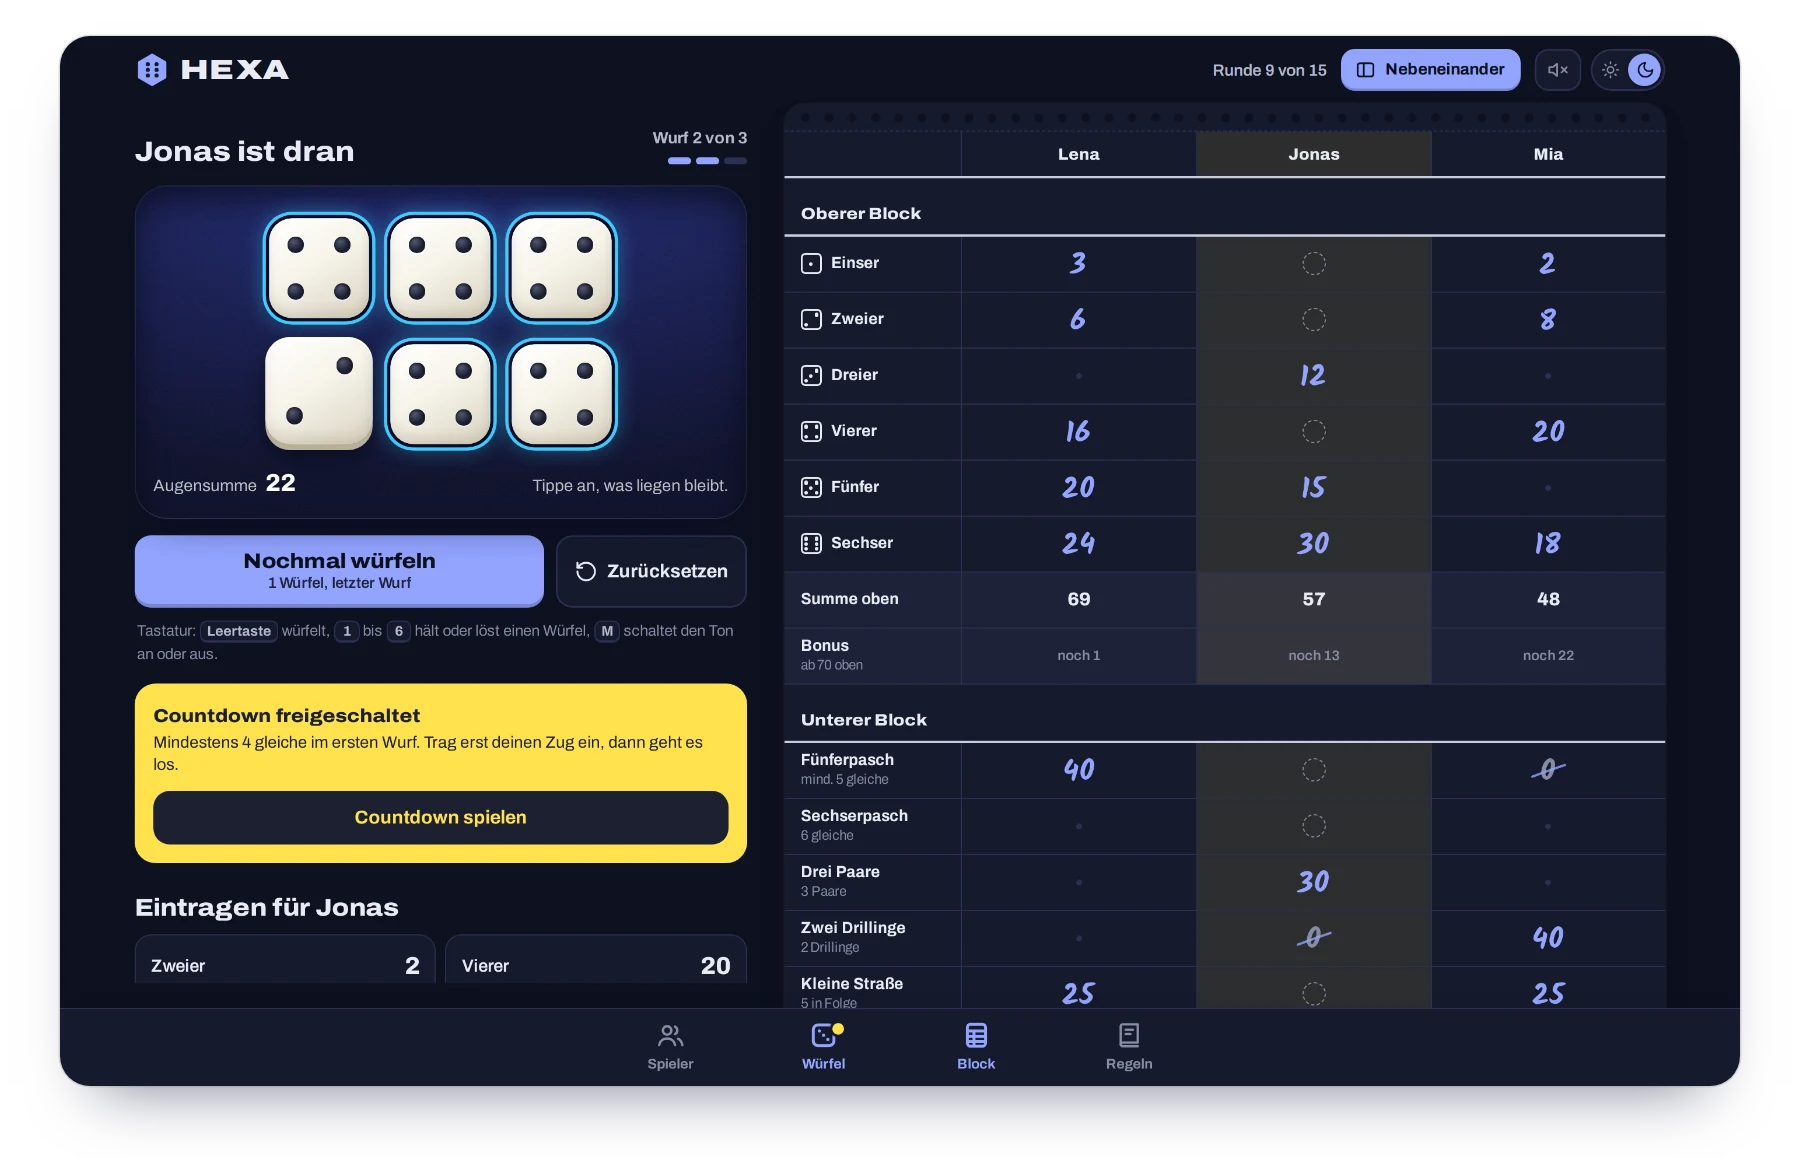
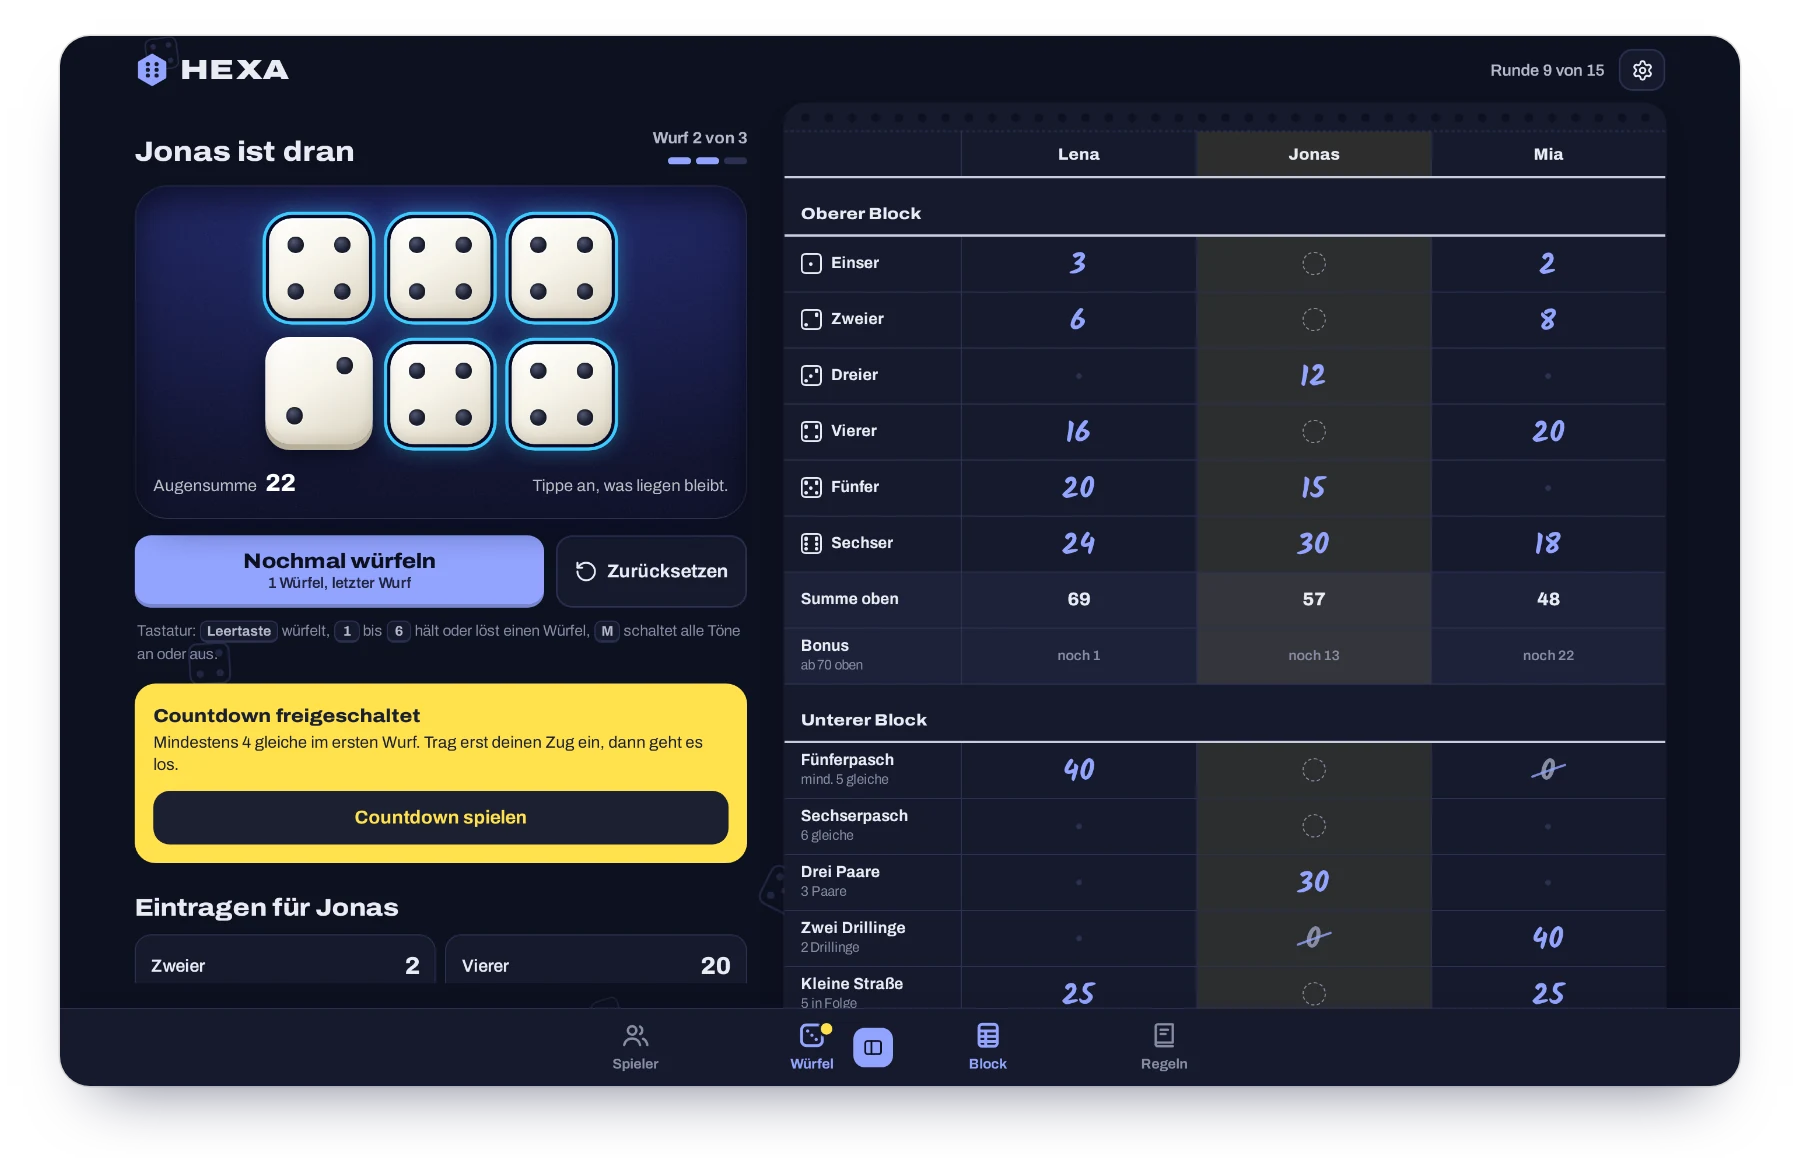
README, Screenshots und Changelog für 1.2.0
Screenshots zeigen den neuen Startbildschirm und die neue Kopfzeile,
das Vorschaubild für geteilte Links ebenso.

Claude-Session: https://claude.ai/code/session_01EyxE22HJnkbi7Dpw29RZbE

diff --git a/README.md b/README.md
@@ -21,7 +21,7 @@ Läuft direkt im Browser, auf dem Handy wie am Laptop. Ohne Installation, ohne K
 
 <picture>
   <source media="(prefers-color-scheme: dark)" srcset="docs/screenshots/hero-dark.webp">
-  <img src="docs/screenshots/hero-light.webp" width="880" alt="HEXA auf dem Handy: Würfel mit gehaltenen Vierern, Spielblock mit drei Personen und der Countdown">
+  <img src="docs/screenshots/hero-light.webp" width="880" alt="HEXA auf dem Handy: Startbildschirm mit fallenden Würfeln, Würfel mit gehaltenen Vierern und der Countdown">
 </picture>
 
 </div>
@@ -36,15 +36,17 @@ Die App ersetzt Würfel, Becher, Block und Stift. Ihr gebt einfach das Handy rei
 
 ## Features
 
+- **Startbildschirm** – Spielmodus wählen: Lokal auf einem Gerät reihum spielen, Online kommt bald.
 - **Würfeln mit Gefühl** – sechs Würfel mit Rollanimation, Klackern und Vibration. Tippen hält einen Würfel fest, nochmal Tippen löst ihn wieder.
 - **Spielblock, der mitrechnet** – Summen, Bonus und Endstand werden automatisch berechnet. Nach jedem Wurf zeigt die App, wie viele Punkte jedes freie Feld bringen würde.
 - **Countdown als Bonusspiel** – wird automatisch freigeschaltet und direkt nach dem Zug gestartet.
 - **Mehrere Personen oder solo** – Reihenfolge festlegen, Namen ändern, Bestenliste mit den fünf besten Ergebnissen.
 - **Nichts geht verloren** – der Spielstand bleibt auch nach dem Schließen erhalten. Einträge, gelöschte Personen oder ein neues Spiel lassen sich mit einem Tipp rückgängig machen.
 - **Regeln eingebaut** – Kurzübersicht, Beispiele und Wahrscheinlichkeiten für Neugierige.
-- **Hell und dunkel** – folgt dem System oder per Schalter.
-- **Ton** – Effekte und entspannte Lo-Fi-Musik, live im Browser erzeugt. Mit einem Tipp stumm.
-- **Nebeneinander** – auf großen Bildschirmen stehen Würfel und Block nebeneinander.
+- **Einstellungen** – Design hell, dunkel oder automatisch. Musik und Spielsounds lassen sich getrennt an- und ausschalten und leiser stellen.
+- **Ton** – Effekte und entspannte Lo-Fi-Musik, live im Browser erzeugt.
+- **Fallende Würfel** – langsam fallende Würfel im Hintergrund, in den Einstellungen abschaltbar. Bei „Bewegung reduzieren“ stehen sie still.
+- **Nebeneinander** – auf großen Bildschirmen holt ein Knopf im Würfel- oder Block-Tab die andere Ansicht dazu.
 - **Auf den Home-Bildschirm** – lässt sich wie eine App installieren und startet dann im Vollbild. Der Bildschirm bleibt während des Spiels an.
 
 <div align="center">
@@ -120,7 +122,7 @@ python3 -m http.server 8000   # dann http://localhost:8000 öffnen
 | --- | --- |
 | <kbd>Leertaste</kbd> | würfeln (auch im Countdown) |
 | <kbd>1</kbd> – <kbd>6</kbd> | Würfel halten oder lösen |
-| <kbd>M</kbd> | Ton an oder aus |
+| <kbd>M</kbd> | alle Töne an oder aus |
 | <kbd>Esc</kbd> | Fenster schließen |
 
 ## Technik

diff --git a/CHANGELOG.md b/CHANGELOG.md
@@ -3,6 +3,23 @@
 Alle wichtigen Änderungen an HEXA stehen hier.
 Das Format folgt [Keep a Changelog](https://keepachangelog.com/de/1.1.0/), die Versionen folgen [Semantic Versioning](https://semver.org/lang/de/).
 
+## [1.2.0] – 2026-09-25
+
+Startbildschirm, Einstellungen und fallende Würfel.
+
+### Neu
+
+- **Startbildschirm:** Logo, Spielmodi „Lokal“ und „Online“ (bald verfügbar) und Einstellungen. Das Logo in der Kopfzeile führt zurück.
+- **Einstellungen:** Design hell, dunkel oder automatisch, Musik und Spielsounds getrennt schaltbar mit eigener Lautstärke, Sprache (bald verfügbar).
+- **Fallende Würfel:** auf dem Startbildschirm echte Würfel, im Spiel dezente gezeichnete. Lassen sich in den Einstellungen ausschalten und stehen bei „Bewegung reduzieren“ still.
+
+### Geändert
+
+- **Kopfzeile:** nur noch Rundenanzeige und Zahnrad für die Einstellungen.
+- **Nebeneinander am Desktop:** Der Knopf sitzt jetzt im aktiven Würfel- bzw. Block-Tab.
+- **Taste M:** schaltet alle Töne aus und wieder so an, wie sie vorher waren.
+- **Suchmaschinen:** nehmen die Seite nicht mehr auf (`noindex`).
+
 ## [1.1.0] – 2026-09-25
 
 Keine Verbindung mehr zu fremden Servern.
@@ -35,5 +52,6 @@ Die erste Version von HEXA.
 - **Web-App:** installierbar auf dem Home-Bildschirm, Bildschirm bleibt während des Spiels an.
 - **Tests:** Wertung aller Felder mit `node --test` abgedeckt.
 
+[1.2.0]: https://github.com/unpacked-dev/hexa/releases/tag/v1.2.0
 [1.1.0]: https://github.com/unpacked-dev/hexa/releases/tag/v1.1.0
 [1.0.0]: https://github.com/unpacked-dev/hexa/releases/tag/v1.0.0
